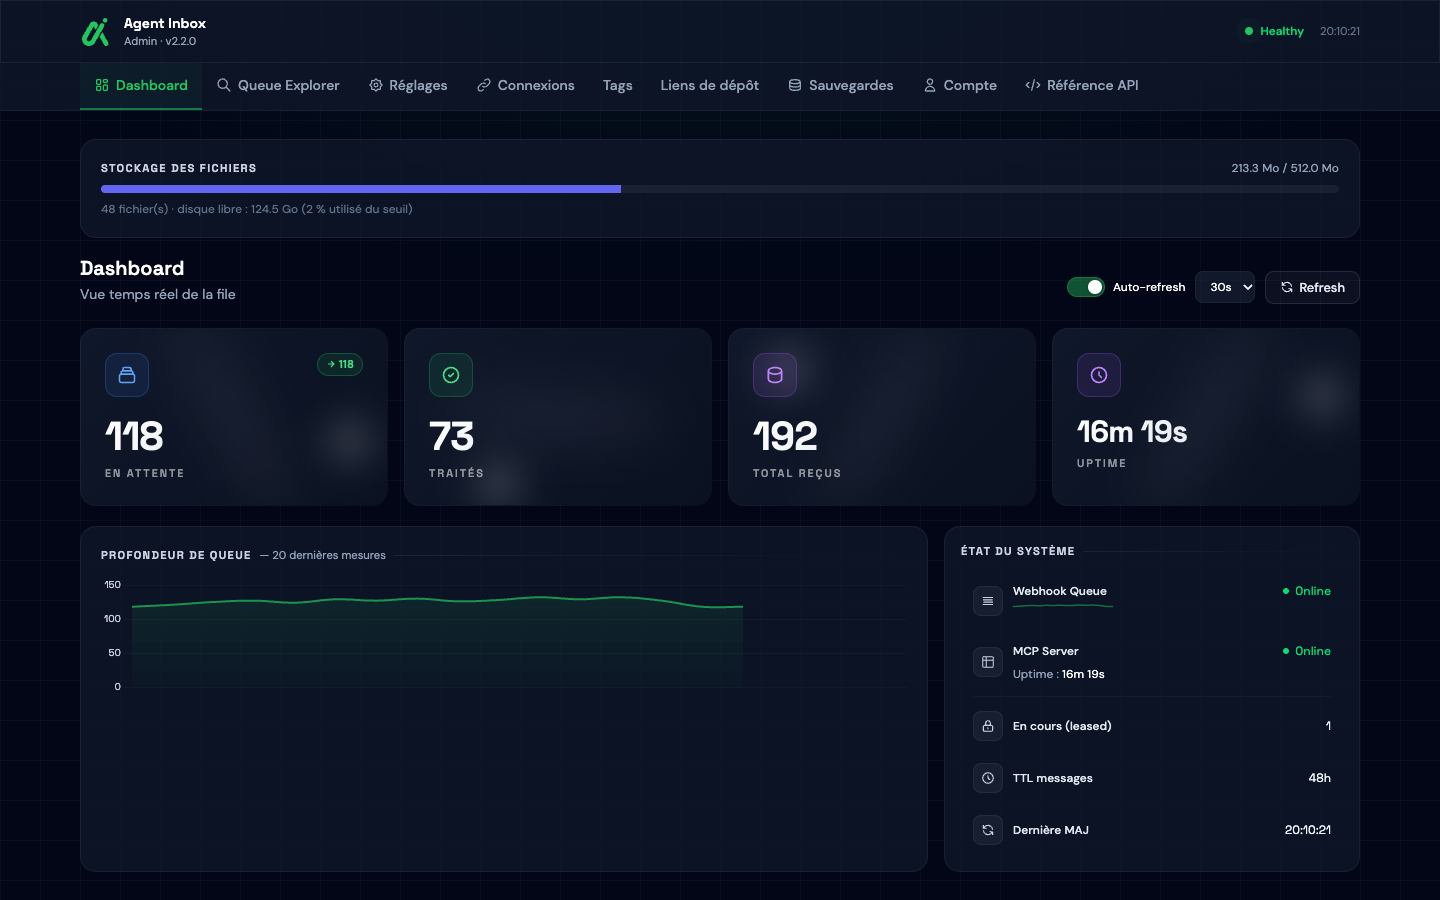
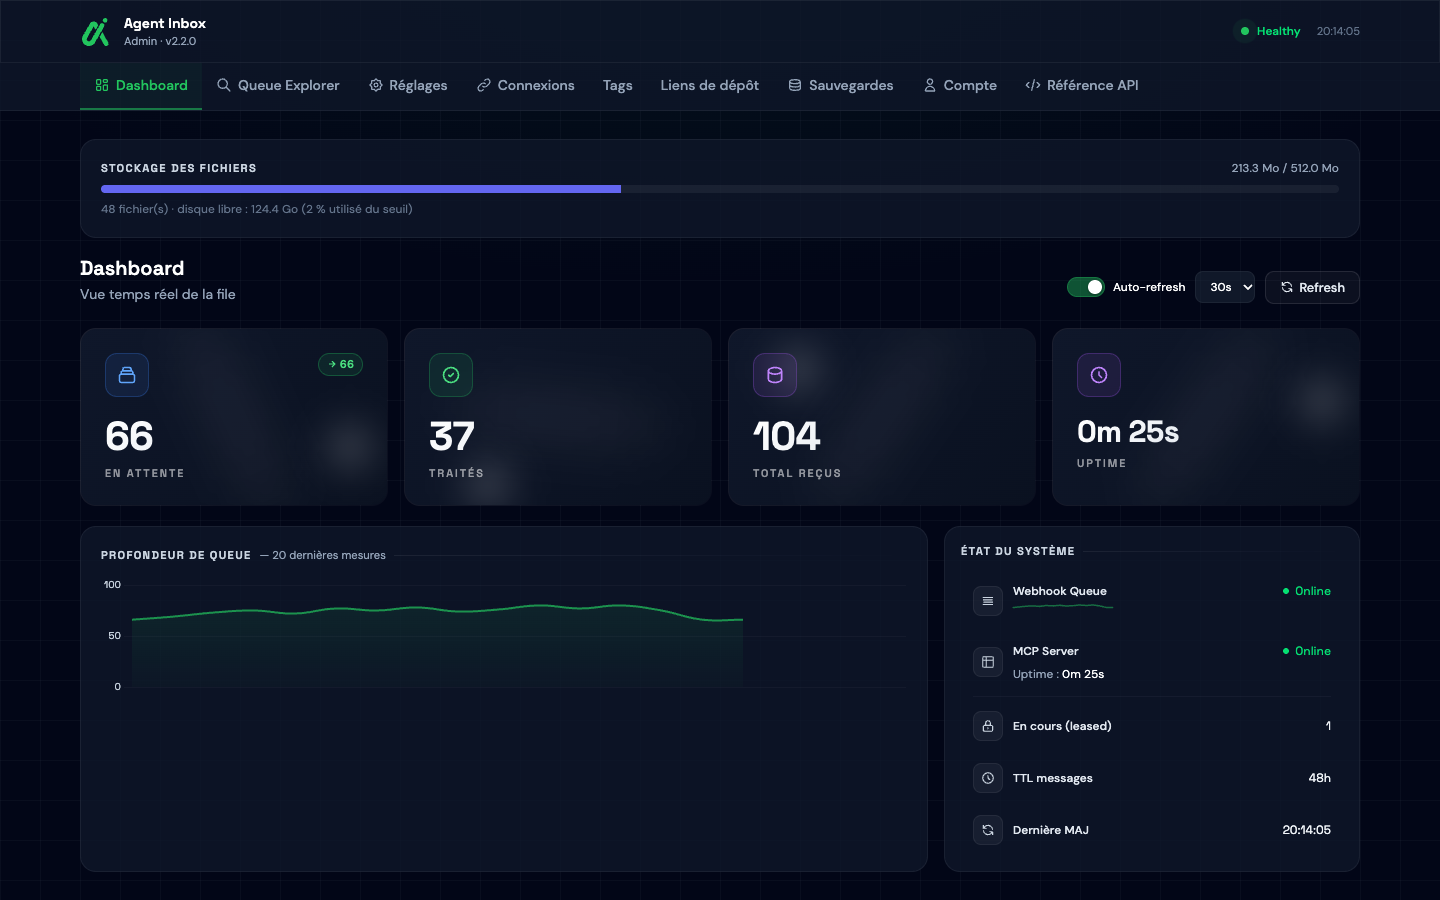
fix(admin): jauge de stockage visible, onglet Tags lisible
La barre de jauge perdait sa hauteur (style statique écrasé par :style) ; l'onglet Tags
écrasait la description sous le sélecteur de fusion. TIFF big-endian non reconnu : limite
de file-type (IFD en fin de fichier), documentée dans le rapport.

diff --git a/public/index.html b/public/index.html
@@ -131,7 +131,7 @@
                   x-text="fmtBytes(ov.storage?.used_bytes) + ' / ' + fmtBytes(ov.storage?.quota_bytes)"></span>
           </div>
           <div style="height:8px;border-radius:4px;background:rgba(255,255,255,0.06);overflow:hidden">
-            <div style="height:8px" :style="'width:' + storagePct() + '%;background:' + (storagePct() >= 80 ? '#EF4444' : '#6366F1')"></div>
+            <div class="h-2" :style="'width:' + storagePct() + '%;background:' + (storagePct() >= 80 ? '#EF4444' : '#6366F1')"></div>
           </div>
           <p class="text-xs mt-2" style="color:#64748B">
             <span x-text="ov.storage?.files_count"></span> fichier(s) · disque libre : <span x-text="fmtBytes(ov.storage?.disk_free_bytes)"></span>
@@ -955,13 +955,17 @@
                 <span class="text-xs" style="color:#94A3B8" x-text="tag.usage_count + ' usage(s)'"></span>
                 <span x-show="tag.needs_description" class="text-xs" style="color:#FCD34D">à décrire</span>
               </div>
-              <div class="flex items-center gap-2 mt-1">
-                <input class="q-input plain sm flex-1" :value="tag.description" @change="saveTagDescription(tag.name, $event.target.value)" maxlength="280">
-                <select class="q-input plain sm" @change="mergeTag(tag.name, $event.target.value); $event.target.value=''">
-                  <option value="">Fusionner dans…</option>
-                  <template x-for="o in tagList.filter(x => x.name !== tag.name)" :key="o.name"><option :value="o.name" x-text="o.name"></option></template>
-                </select>
-                <button class="btn btn-ghost text-xs" @click="deleteTag(tag.name)">Supprimer</button>
+              <div class="flex flex-col md:flex-row md:items-center gap-2 mt-1">
+                <input class="q-input plain sm md:flex-1 min-w-0" :value="tag.description" @change="saveTagDescription(tag.name, $event.target.value)" maxlength="280" aria-label="Description du tag">
+                <div class="flex items-center gap-2">
+                  <div class="flex-1 md:flex-none md:w-44">
+                    <select class="q-input plain sm" aria-label="Fusionner ce tag dans un autre" @change="mergeTag(tag.name, $event.target.value); $event.target.value=''">
+                      <option value="">Fusionner dans…</option>
+                      <template x-for="o in tagList.filter(x => x.name !== tag.name)" :key="o.name"><option :value="o.name" x-text="o.name"></option></template>
+                    </select>
+                  </div>
+                  <button class="btn btn-ghost text-xs shrink-0" @click="deleteTag(tag.name)">Supprimer</button>
+                </div>
               </div>
               <p class="text-xs mt-1" style="color:#64748B" x-text="tag.description"></p>
             </div>

diff --git a/test/admin.ui.test.ts b/test/admin.ui.test.ts
@@ -48,3 +48,14 @@ describe('interface : aucun texte externe interprété comme HTML', () => {
     )
   })
 })
+
+describe('interface : mise en page', () => {
+  it('la barre de jauge garde sa hauteur par une classe (un style statique est écrasé par :style)', () => {
+    expect(html).toContain('<div class="h-2" :style="\'width:\' + storagePct()')
+  })
+
+  it('l’onglet Tags : la description n’est pas écrasée par le sélecteur de fusion', () => {
+    expect(html).toContain('class="q-input plain sm md:flex-1 min-w-0"')
+    expect(html).toContain('md:flex-none md:w-44')
+  })
+})
